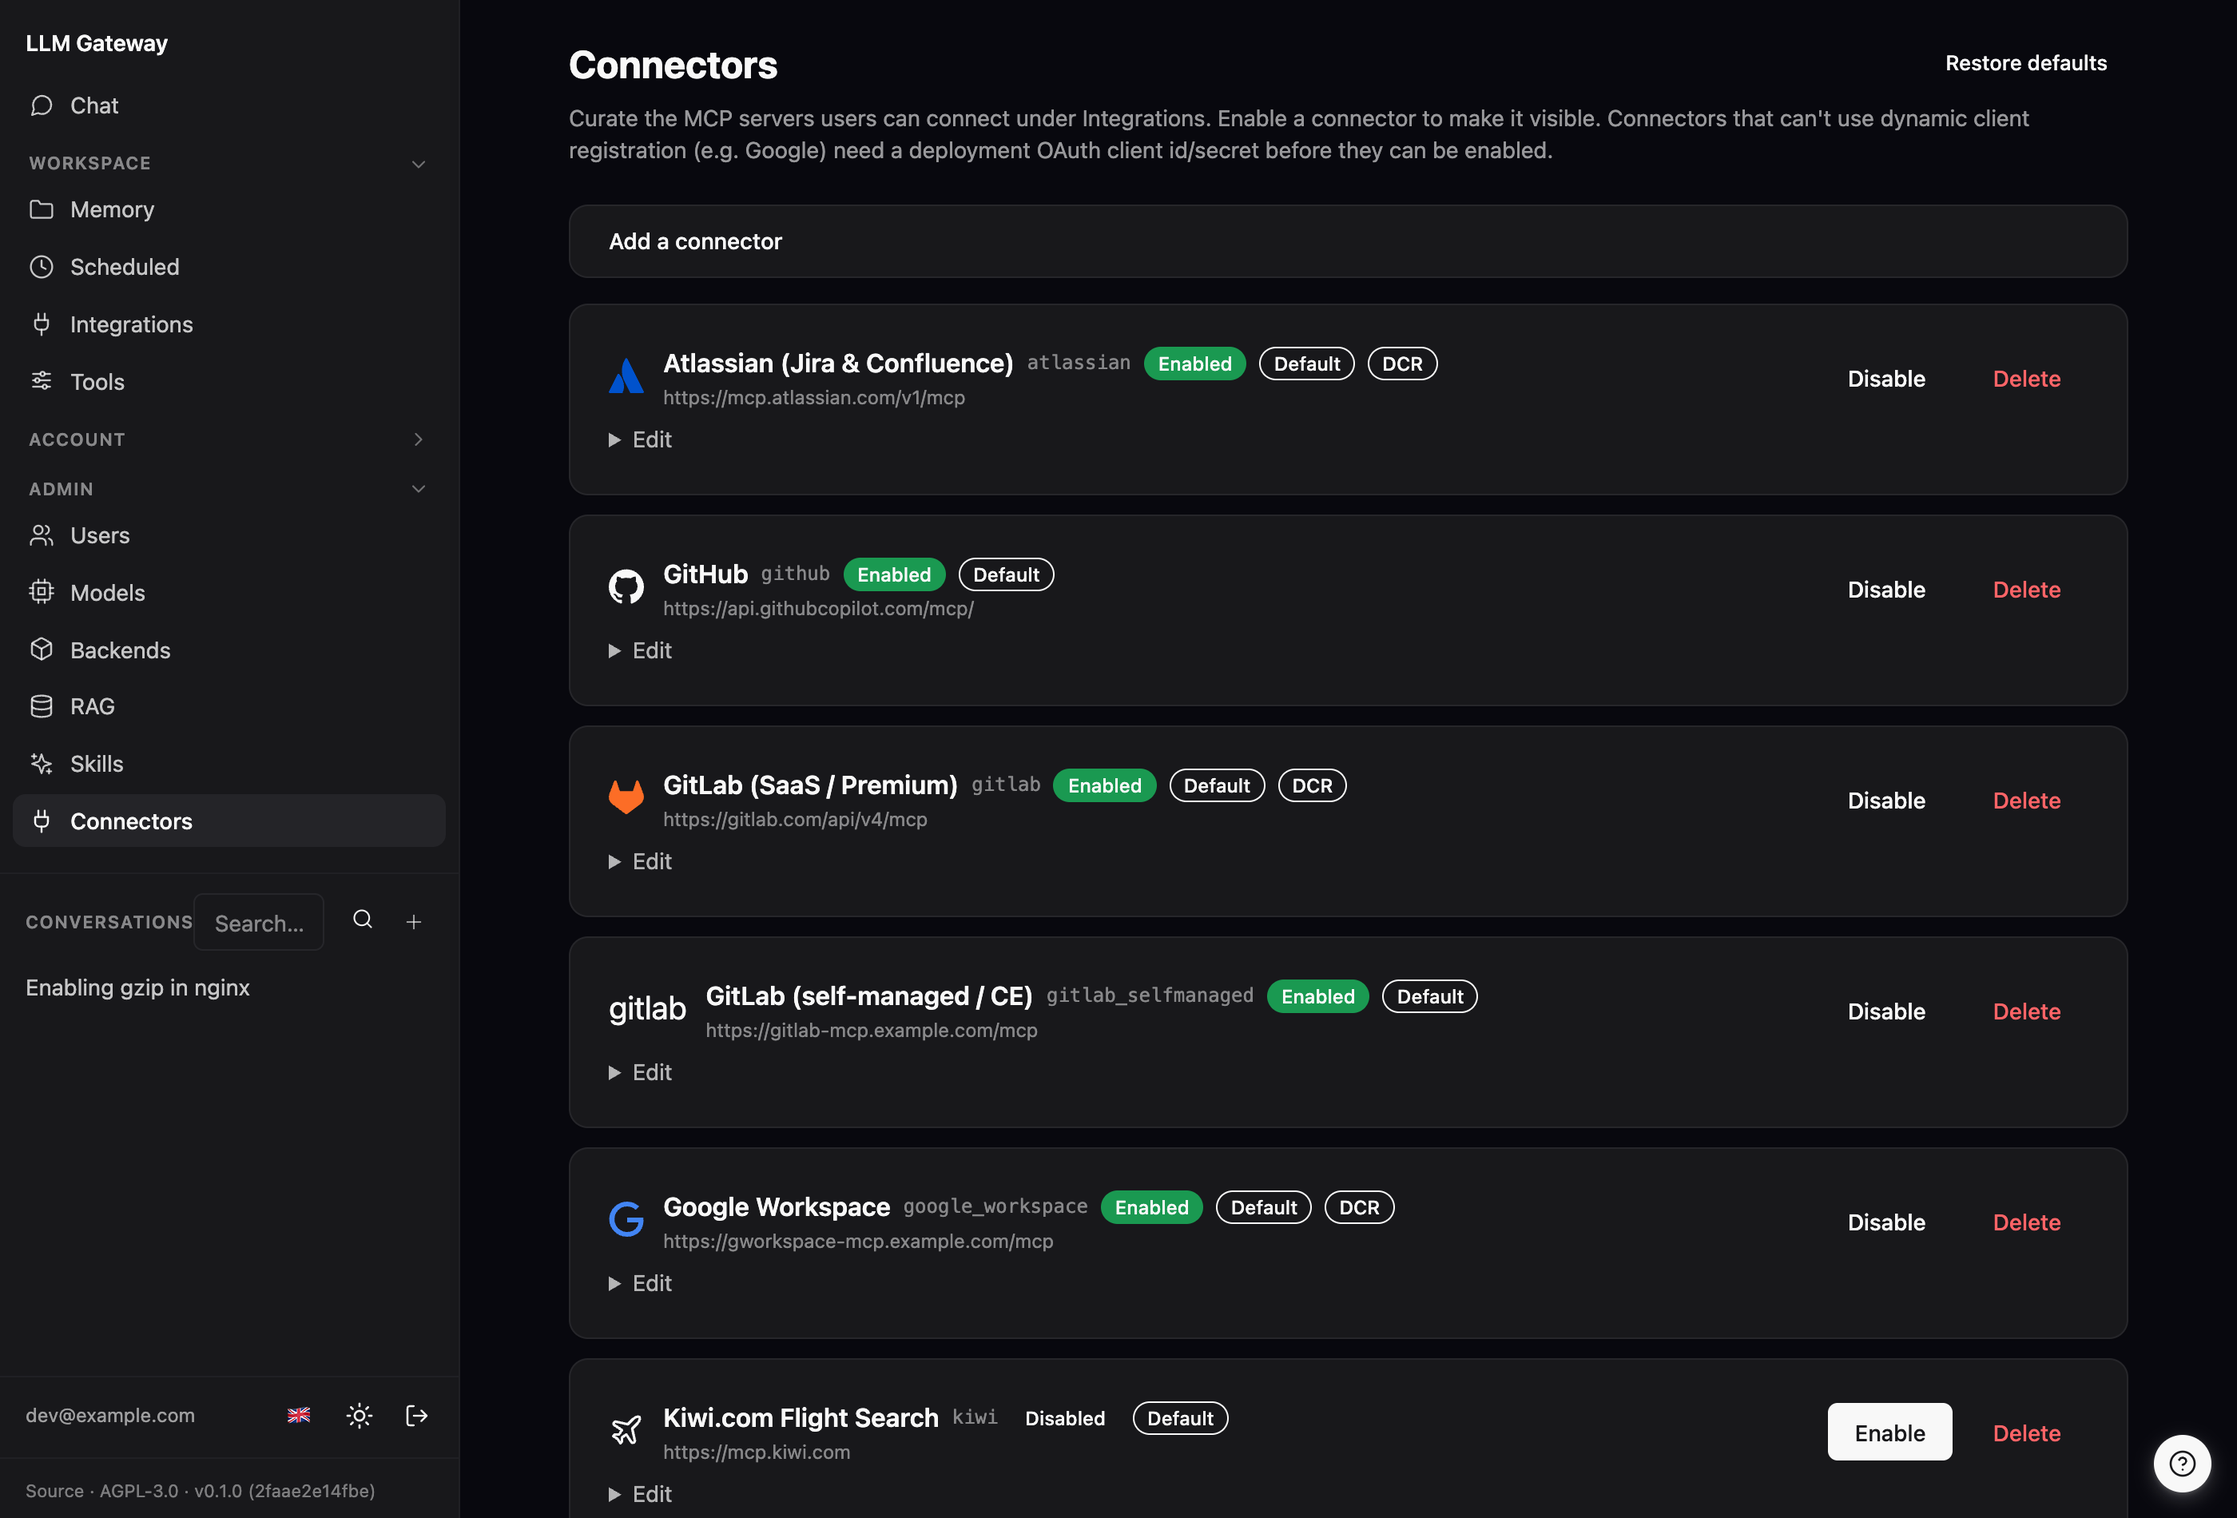
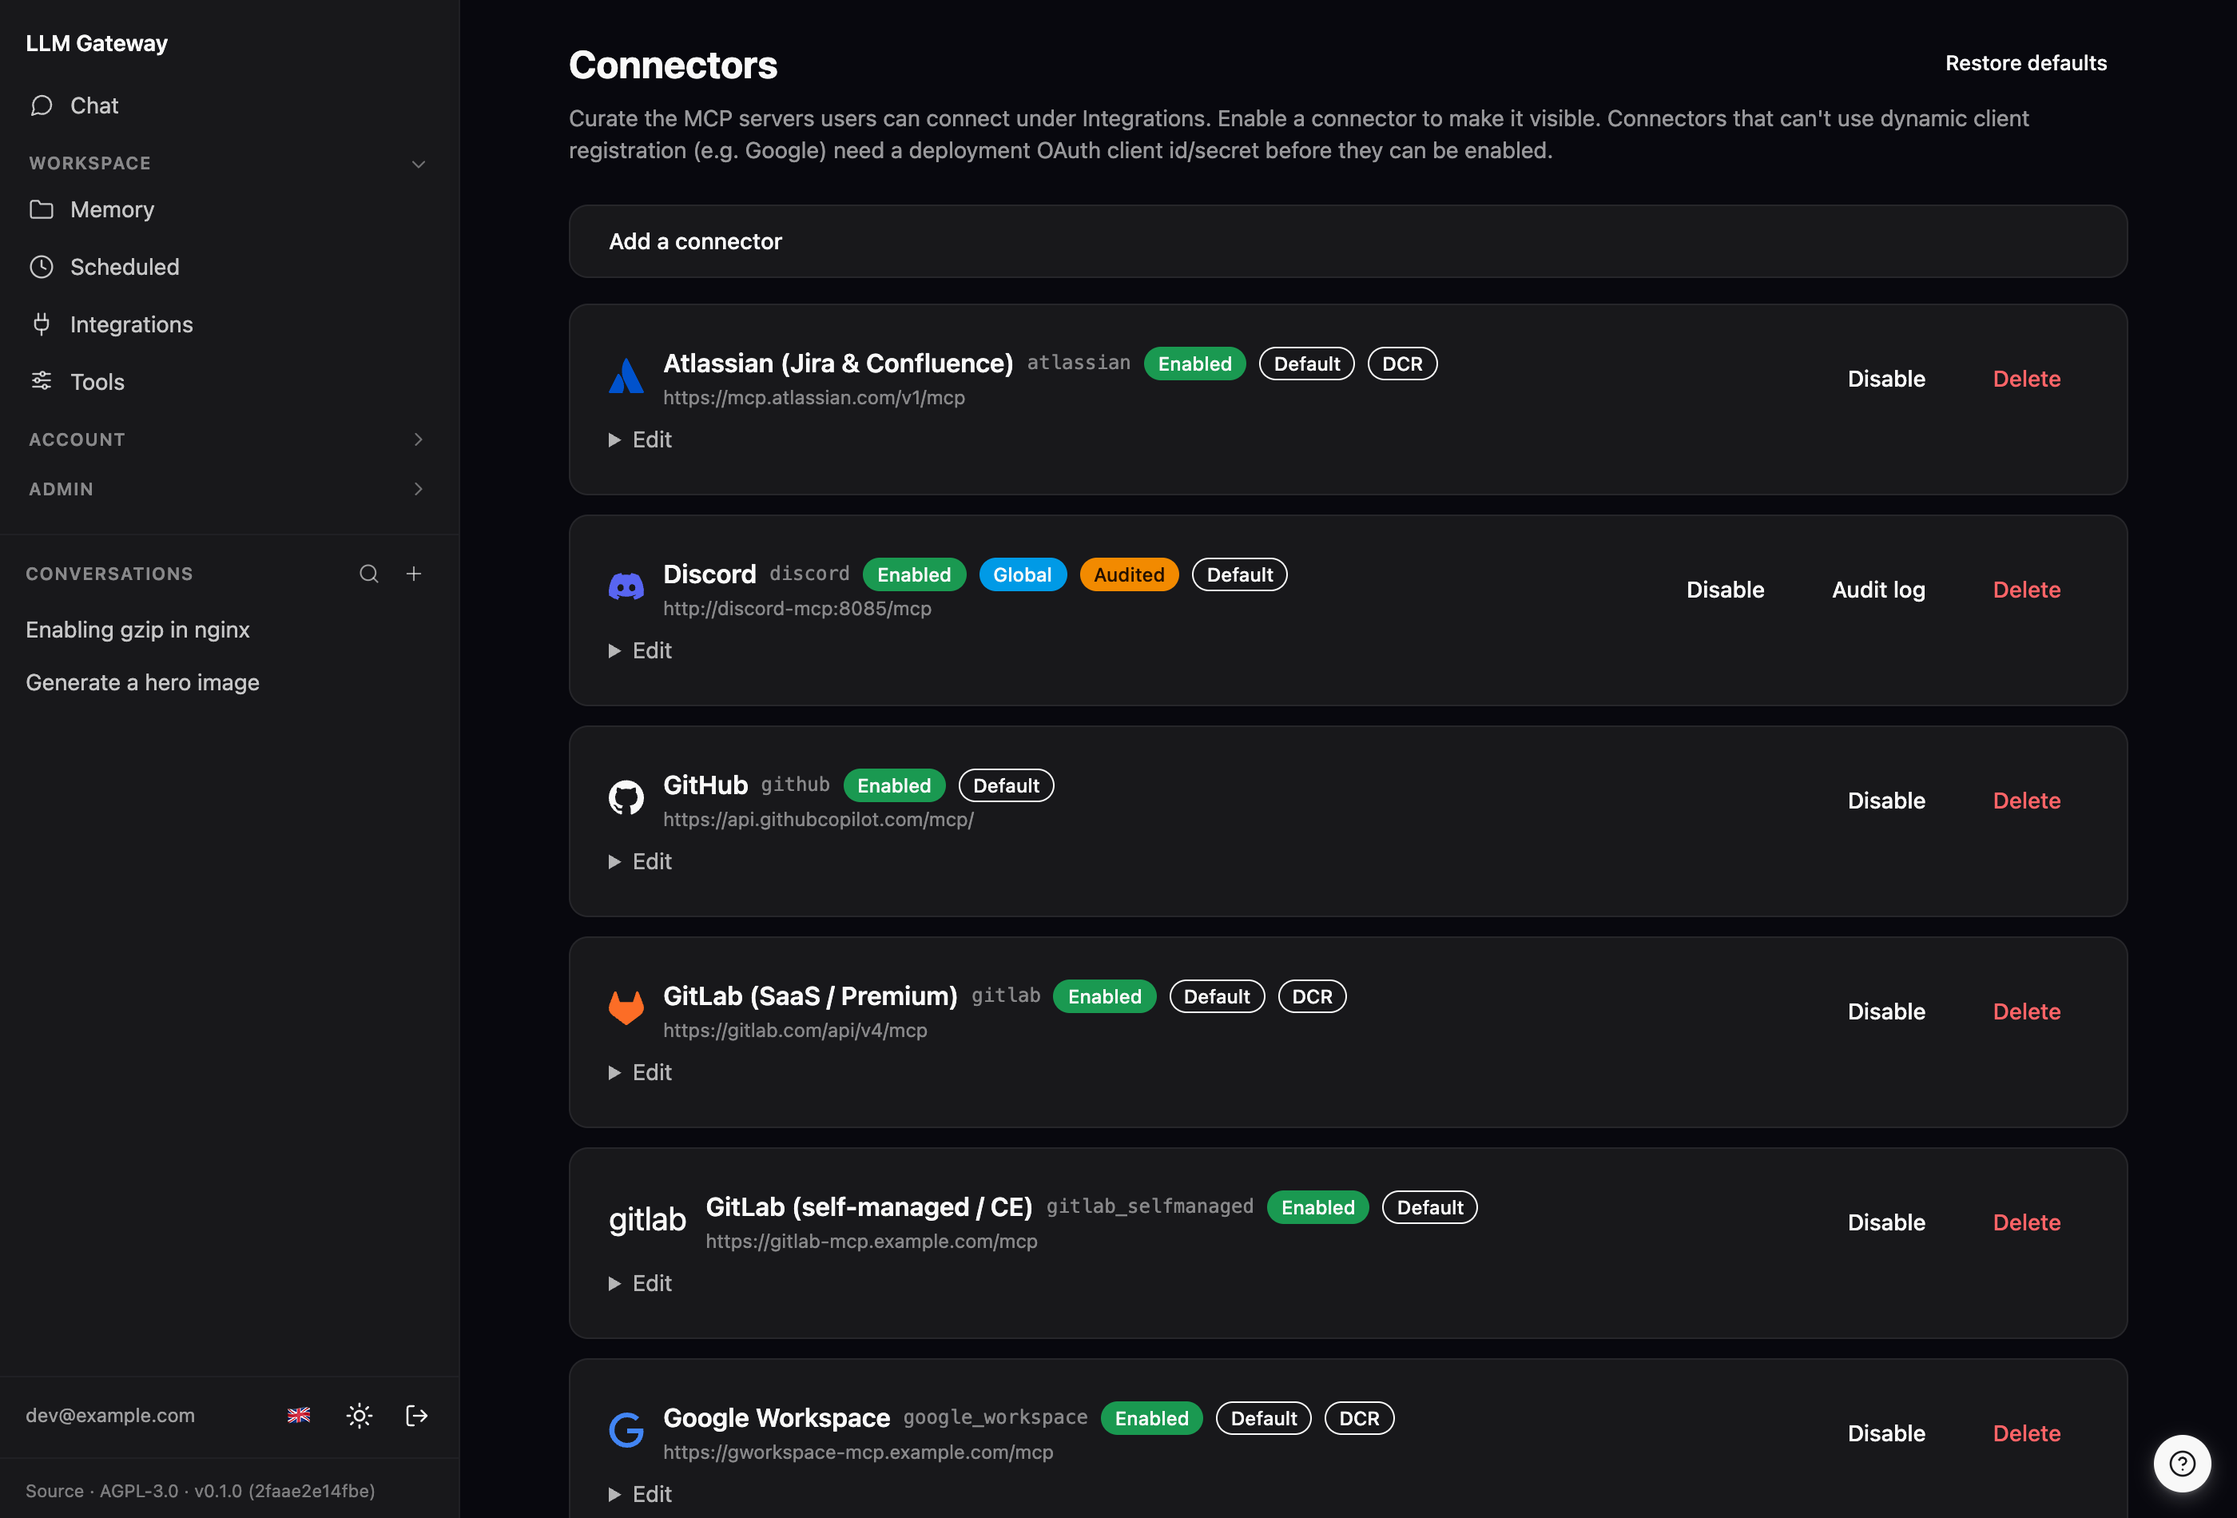
docs(deploy): Discord bridge → SaseQ (HTTP :8085, llm network, DMs) + audit screenshots
The Discord MCP bridge is SaseQ/discord-mcp, not barryyip0625/mcp-discord — it
exposes the DM tools (send_private_message, get_user_id_by_name, …) the former
lacks. Reconcile the deploy files, docs, seeded connector, and dev-ui demo with
that reality:

- Quadlet + compose: image docker.io/saseq/discord-mcp, SPRING_PROFILES_ACTIVE=http
  (serve streamable HTTP on :8085 instead of the default stdio), and — the fix
  for the actual reachability bug — Network=llm.network so the gateway resolves
  the bridge by name (the default `podman` network has DNS disabled).
- example.env documents the optional DISCORD_GUILD_ID default.
- Seeded discord connector comment/description + docs/connectors.md + deploy
  READMEs describe the SaseQ bridge, :8085, DM support, and the connector URL
  http://discord-mcp:8085/mcp.
- dev-ui seeds the enabled, audited Discord connector + a few sample audit rows
  so /admin/connectors and the per-connector audit page render populated.
- Add docs/img/connector-audit.png (the per-connector audit log) and refresh
  docs/img/connectors.png; reference both in docs/connectors.md.

diff --git a/crates/gateway/examples/dev_ui.rs b/crates/gateway/examples/dev_ui.rs
@@ -683,6 +683,53 @@ async fn seed_demo_data(state: &RamaState) -> anyhow::Result<()> {
     ] {
         mcp_catalog::set_enabled(&state.db, key, true).await?;
     }
+    // The global, audited Discord connector (shared bot) — configured + enabled
+    // and given a few sample tool-call audit rows so /admin/connectors shows the
+    // Global/Audited badges + "Audit log" button and the audit page renders
+    // populated. Generic data only.
+    sqlx::query("UPDATE mcp_catalog_connectors SET url = ? WHERE key = 'discord'")
+        .bind("http://discord-mcp:8085/mcp")
+        .execute(&state.db)
+        .await?;
+    mcp_catalog::set_enabled(&state.db, "discord", true).await?;
+    {
+        use gateway::server::db::mcp_audit;
+        mcp_audit::record(
+            &state.db,
+            "dev",
+            "discord",
+            "mcp__discord__send_private_message",
+            Some(
+                r#"{"userId":"826733236931526666","message":"Standup reminder in 10 minutes 🕙"}"#,
+            ),
+            "ok",
+            None,
+            Some("chat-a1"),
+        )
+        .await?;
+        mcp_audit::record(
+            &state.db,
+            "dev",
+            "discord",
+            "mcp__discord__send_message",
+            Some(r#"{"channelId":"826729434073530409","message":"Deploy v1.4.2 finished ✅"}"#),
+            "ok",
+            None,
+            Some("chat-a1"),
+        )
+        .await?;
+        mcp_audit::record(
+            &state.db,
+            "dev",
+            "discord",
+            "mcp__discord__create_webhook",
+            Some(r#"{"channelId":"826729434073530409","name":"ci-bot"}"#),
+            "error",
+            Some("Missing permission: MANAGE_WEBHOOKS"),
+            Some("chat-b2"),
+        )
+        .await?;
+    }
 
     // --- API tokens (for the /tokens screenshot) — a mix of active (one
     // recently used, one never) and a revoked one, all owned by `dev`. The

diff --git a/crates/gateway/src/server/db/mcp_catalog.rs b/crates/gateway/src/server/db/mcp_catalog.rs
@@ -519,14 +519,14 @@ pub const DEFAULT_CONNECTORS: &[DefaultConnector] = &[
         scope: Scope::Global,
         audit: true,
         name: "Discord",
-        description: "Send and read messages, and manage channels, threads, roles, and webhooks via a shared Discord bot. Available to everyone the operator's roles allow — no per-user sign-in.",
+        description: "Send and read messages (including DMs), and manage channels, threads, and webhooks via a shared Discord bot. Available to everyone the operator's roles allow — no per-user sign-in.",
         icon: "discord",
         category: "Communication",
-        // Self-hosted HTTP bridge (barryy625/mcp-discord, streamable HTTP on
-        // :8080 → `/mcp`). Deployment-specific, so the admin sets the URL
-        // (typically http://discord-mcp:8080/mcp). The bot token is baked into
-        // the bridge container and the endpoint is loopback/internal-only, so
-        // the gateway sends no auth. See deploy/README.md.
+        // Self-hosted HTTP bridge (SaseQ/discord-mcp, streamable HTTP on :8085
+        // → `/mcp`). Deployment-specific, so the admin sets the URL (typically
+        // http://discord-mcp:8085/mcp). The bot token lives in the bridge
+        // container, reached only over the gateway's private network, so the
+        // gateway sends no auth. See deploy/README.md.
         url: "",
         auth: AuthKind::None,
         use_dcr: false,

diff --git a/deploy/README.md b/deploy/README.md
@@ -15,7 +15,7 @@ deployment methods are provided — pick one:
 | **gateway** | `ghcr.io/croit/llm-gateway` | The OpenAI-compatible proxy + web UI. The only one that's mandatory. |
 | **google-workspace-mcp** | `ghcr.io/taylorwilsdon/google_workspace_mcp` | Self-hosted Google Workspace MCP server backing the per-user **Google Workspace** connector (Gmail/Calendar/Drive/Docs/…). Optional. |
 | **gitlab-mcp** | `docker.io/zereight050/gitlab-mcp` | Community bridge backing the per-user **GitLab (self-managed / CE)** connector; forwards each request's bearer as that user's GitLab PAT. Optional. |
-| **discord-mcp** | `docker.io/barryy625/mcp-discord` | Discord bot bridge backing the seeded **global** Discord connector (enabled + pointed at this bridge in `/admin/connectors`, see below). Optional. |
+| **discord-mcp** | `docker.io/saseq/discord-mcp` | Discord bot bridge (channel + DM tools) backing the seeded **global** Discord connector (enabled + pointed at this bridge in `/admin/connectors`, see below). Optional. |
 | **sandbox-runner** | `ghcr.io/croit/llm-gateway-sandbox-runner` | Code-execution runner (`run_in_sandbox` etc.). Optional; needs gVisor. |
 | **egress-proxy** | `docker.io/ubuntu/squid` | Allowlisting proxy for networked sandbox runs. Optional. |
 | sandbox workload | `ghcr.io/croit/llm-gateway-sandbox` | The "gold image" the runner spawns per job (pulled by the runner, not run directly). |
@@ -199,13 +199,15 @@ bridge in `/admin/connectors` — no `gateway.toml` edit, no restart.
    just `Administrator` for simplicity) → open the generated URL and invite
    the bot to your server.
 
-**Run the bridge** — the [`barryyip0625/mcp-discord`](https://github.com/barryyip0625/mcp-discord)
-project publishes a ready HTTP image at
-[`barryy625/mcp-discord`](https://hub.docker.com/r/barryy625/mcp-discord)
-(streamable HTTP on :8080, endpoint `/mcp`), so no local build is needed. (Do
-*not* use the `mcp/mcp-discord` verified image — it's a different, stdio-only
-project meant for the Docker MCP gateway, and the gateway can't reach it over
-HTTP.)
+**Run the bridge** — [`SaseQ/discord-mcp`](https://github.com/SaseQ/discord-mcp)
+(image [`docker.io/saseq/discord-mcp`](https://hub.docker.com/r/saseq/discord-mcp)).
+We use it because it exposes **DM tools** (`send_private_message`) plus channel
+messaging and a `get_user_id_by_name` lookup. It defaults to stdio, so set
+**`SPRING_PROFILES_ACTIVE=http`** to make it serve streamable HTTP on **:8085**
+at `/mcp` (the compose/Quadlet configs below already do this). Optionally set
+`DISCORD_GUILD_ID` as a default server. (Do *not* use the `mcp/mcp-discord`
+verified image — it's a different, stdio-only project the gateway can't reach
+over HTTP.)
 
 Compose (`discord` profile):
 
@@ -215,7 +217,8 @@ $EDITOR deploy/discord-mcp.env                       # DISCORD_TOKEN=...
 docker compose -f deploy/compose.example.yml --profile discord up -d
 ```
 
-Quadlet ([`quadlet/discord-mcp.container`](quadlet/discord-mcp.container)):
+Quadlet ([`quadlet/discord-mcp.container`](quadlet/discord-mcp.container)) — it
+joins the gateway's `llm` network so the gateway resolves it by name:
 
 ```bash
 sudo cp deploy/quadlet/discord-mcp.container /etc/containers/systemd/
@@ -225,17 +228,20 @@ sudo systemctl daemon-reload
 sudo systemctl enable --now discord-mcp.service
 ```
 
-Endpoint: `/mcp` (container port 8080). Keep it internal-only (loopback /
-private network), never exposed publicly: the bot token is baked into the
-container and grants full bot access with no per-caller scoping.
+Endpoint: `/mcp` (container port 8085). Keep it internal-only (private network),
+never exposed publicly: the bot token grants full bot access with no per-caller
+scoping. **The bridge must share a DNS-enabled network with the gateway** — the
+`llm` network for Quadlet, the compose network by service name — or the gateway
+can't resolve `discord-mcp`.
 
 **Enable it** in the gateway UI (as an admin): open **`/admin/connectors`**,
 find **Discord**, click **Edit**, set the **URL** to
-`http://discord-mcp:8080/mcp` (full-stack compose) or
-`http://127.0.0.1:3334/mcp` (native gateway + Quadlet loopback port), and save,
-then **Enable**. The connector's auth is **No auth** (the gateway sends no
-credentials — the bot token lives in the bridge), and its scope is **Global**,
-so its tools are immediately available to everyone the connector's role allows.
+`http://discord-mcp:8085/mcp` (compose service name or Quadlet `llm` network) or
+`http://127.0.0.1:3334/mcp` (native gateway + the loopback port published above),
+save, then **Enable**. The connector's auth is **No auth** (the gateway sends no
+credentials — the bot token lives in the bridge), its scope is **Global**, and
+it ships **audited** — every tool call is logged (the **Audit log** button on
+its row). Its tools are then available to everyone the connector's role allows.
 
 ## Sandbox (code execution)
 

diff --git a/docs/connectors.md b/docs/connectors.md
@@ -12,7 +12,7 @@ connector has a **scope**:
   live for everyone the connector's role allows. See [Scope](#scope-per-user-vs-global)
   and [Discord](#discord-a-global-connector) below.
 
-![The /admin/connectors page: the connector catalog — Atlassian, GitHub, GitLab (SaaS and self-managed), Google Workspace — each row showing its key, endpoint, auth badges (Default / DCR), and Enable / Edit / Delete controls.](img/connectors.png)
+![The /admin/connectors page: the connector catalog — Atlassian, Discord, GitHub, GitLab, Google Workspace — each row showing its key, endpoint, and badges (Enabled, Global, Audited, Default, DCR). Discord (a global, audited connector) carries an "Audit log" button next to Disable / Delete.](img/connectors.png)
 
 This doc is the **operator setup guide**. Connecting a server is one click for
 the user, but getting a provider's OAuth app into a state where that click
@@ -81,12 +81,20 @@ Discord is the shipped example of a global connector: a bot token authenticates
 one shared bot for the whole server, so there's no per-user Discord account to
 connect. It's seeded (disabled) in the catalog. Setup is two steps — run the
 sidecar bridge, then enable + point the connector at it — and is documented in
-full (bot creation, intents, invite URL, running the bridge, and the loopback
+full (bot creation, intents, invite URL, running the bridge, and the connector
 URL to enter) in [`deploy/README.md`](../deploy/README.md#discord).
 
 The connector's auth is **None** (the gateway sends no credential — the bot
-token lives in the bridge container behind a private/loopback endpoint) and its
-scope is **Global**. Its tools surface as `mcp__discord__*`.
+token lives in the bridge container, reached only over the gateway's private
+network) and its scope is **Global**. Its tools surface as `mcp__discord__*`,
+including DMs (`send_private_message`) since the bridge is
+[SaseQ/discord-mcp](https://github.com/SaseQ/discord-mcp).
+
+Discord ships with **auditing on by default** — every tool call (who ran what,
+with which arguments, and the outcome) is recorded, viewable via the **Audit
+log** button on its row:
+
+![The per-connector audit log for Discord: a table of tool calls, newest first, with columns When / User / Tool / Outcome / Detail — showing send_private_message and send_message succeeding and a create_webhook call denied for lack of the MANAGE_WEBHOOKS permission.](img/connector-audit.png)
 
 ---
 

diff --git a/deploy/quadlet/README.md b/deploy/quadlet/README.md
@@ -156,8 +156,10 @@ equivalent: [`../README.md`](../README.md#gitlab-self-managed--community-edition
 Discord is a **global** connector — a Discord bot token authenticates one shared
 bot for the whole server, not a per-user OAuth account. It ships seeded (and
 disabled) in the catalog; an admin enables it and points it at this bridge in
-`/admin/connectors`. The bridge, [`barryyip0625/mcp-discord`](https://github.com/barryyip0625/mcp-discord),
-publishes a ready HTTP image, so no local build is needed:
+`/admin/connectors`. The bridge, [`SaseQ/discord-mcp`](https://github.com/SaseQ/discord-mcp)
+(channel + DM tools), is a published image — no local build needed. The unit
+sets `SPRING_PROFILES_ACTIVE=http` (streamable HTTP on :8085) and joins the
+gateway's `llm` network so it's reachable by name:
 
 ```bash
 sudo cp deploy/quadlet/discord-mcp.container /etc/containers/systemd/
@@ -168,10 +170,10 @@ sudo systemctl enable --now discord-mcp.service
 ```
 
 Then, as a gateway admin, open **`/admin/connectors`**, **Enable** Discord and
-set its **URL** to `http://localhost:3334/mcp` (the loopback port published by
-the unit) — no `gateway.toml` edit, no restart. No credential is configured on
-the connector (the bot token is baked into the container), and the endpoint must
-stay internal-only — it grants full bot access with no per-caller scoping. Bot
+set its **URL** to `http://discord-mcp:8085/mcp` (resolved over the `llm`
+network) — no `gateway.toml` edit, no restart. No credential is configured on
+the connector (the bot token lives in the container), and the endpoint stays
+internal-only — it grants full bot access with no per-caller scoping. Bot
 creation steps (intents, permissions, invite URL) and the compose equivalent:
 [`../README.md`](../README.md#discord).
 
